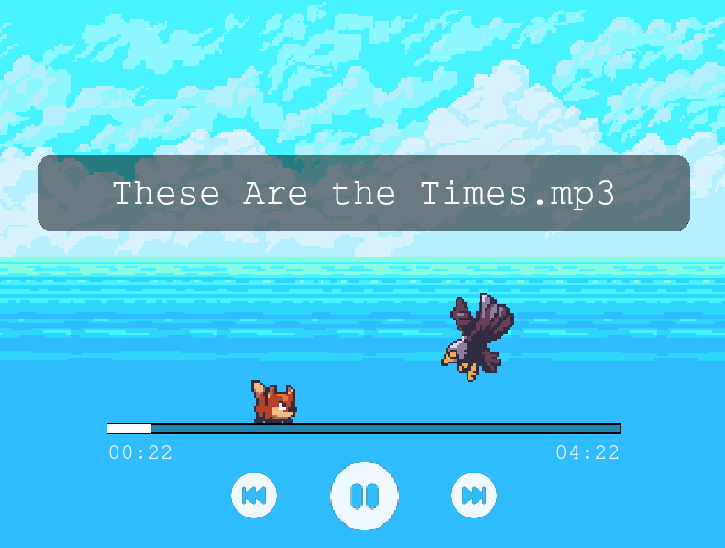
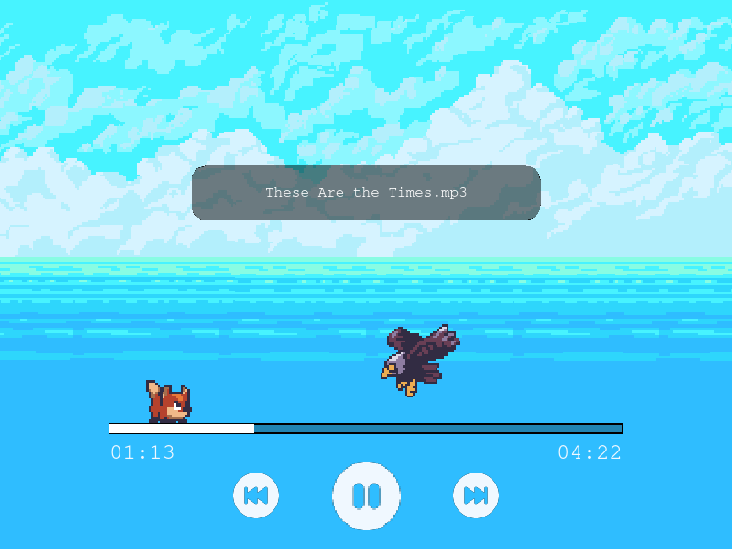
decrease font size

diff --git a/src/main.js b/src/main.js
@@ -417,7 +417,7 @@ class MainScene extends Phaser.Scene {
                 this.screenSize.width * 0.5,
                 this.screenSize.height * 0.35,
                 "Loading...",
-                { fontSize: `${this.screenSize.width / 20}px` },
+                { fontSize: `${this.screenSize.width * 0.02}px` },
             )
             .setOrigin(0.5)
             .setDepth(5);
